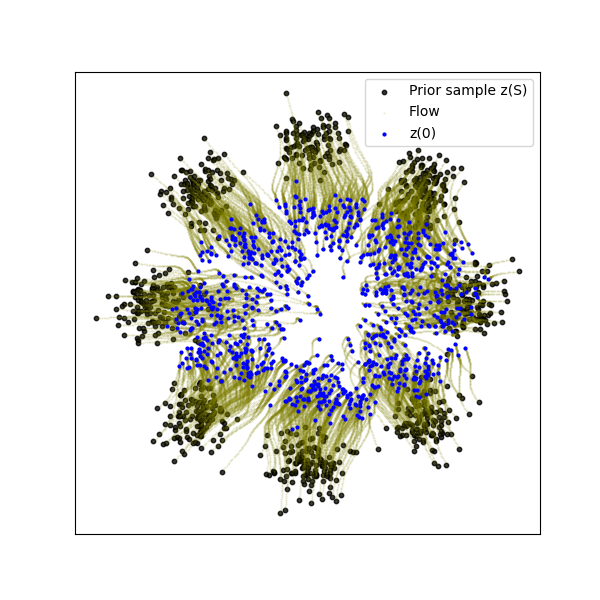
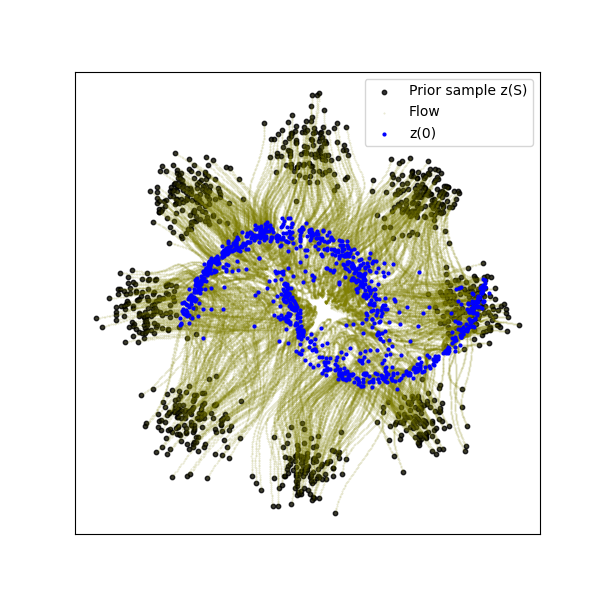
Finally made VFM work correctly. The new objective with the original CFM flow indeed match. Discuss with Floor why the other flow doesn't

Changed region(s): [[0.15, 0.15, 0.87, 0.87]]

diff --git a/VFM_train.py b/VFM_train.py
@@ -13,12 +13,11 @@ def train_Variational_model():
 
     sigma = 0.1
     dim = 2
-    batch_size = 1024
+    batch_size = 256
     model = MLP(dim=dim, time_varying=True)
     optimizer = torch.optim.Adam(model.parameters())
-    FM = VFM(sigma=sigma)
-    criterion1 = torch.nn.MSELoss()
-    # criterion2 = torch.nn.GaussianNLLLoss()
+    FM = CFM(sigma=sigma)
+    criterion = torch.nn.GaussianNLLLoss()
 
 
     start = time.time()
@@ -32,11 +31,10 @@ def train_Variational_model():
 
         vt = model(torch.cat([xt, t[:, None]], dim=-1))
 
-        # var = torch.full_like(x1, sigma**2)
-        # var.requires_grad = False
+        var = torch.full_like(x1, sigma**2)
+        var.requires_grad = False
 
-        loss = criterion1(vt, ut) 
-        # loss = criterion2(vt, ut, var)
+        loss = criterion(vt, ut, var)
 
         loss.backward()
         optimizer.step()

diff --git a/Engine/FM.py b/Engine/FM.py
@@ -91,4 +91,4 @@ class VFM(CFM):
     def compute_conditional_flow(self, x0, x1, t, xt):
         # del x0
         t = pad_t_like_x(t, x1)
-        return (x1 - xt) #/ (1 - t)
+        return x1 - xt
